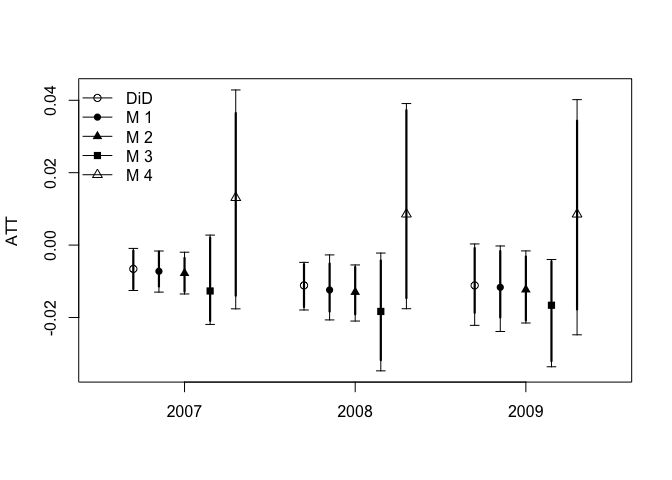
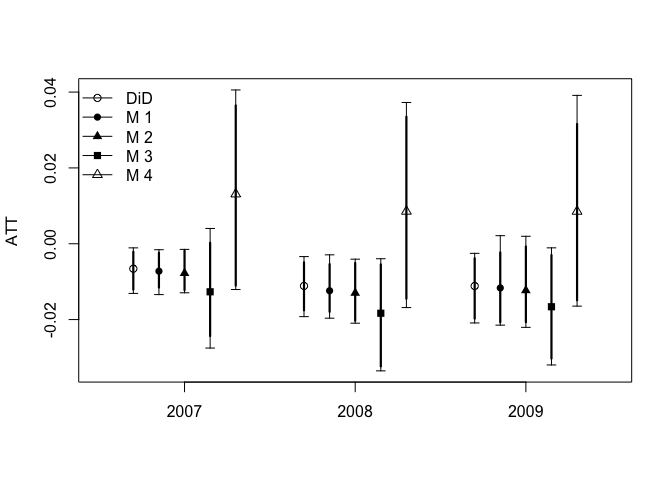
update readme

diff --git a/README.md b/README.md
@@ -43,11 +43,11 @@ data("anzia2012")
 ``` r
 # estimate ATT 
 fit_np <- did(lnavgsalary_cpi ~ oncycle, data = anzia2012,
-                            id_subject = "district", id_time = "year",
-                            post_treatment = c(2007, 2008, 2009),
-                            method = "nonparametric",
-                            se_boot = TRUE, n_boot  = 100, boot_min = FALSE,
-                            select = "HQIC")
+    id_subject = "district", id_time = "year",
+    post_treatment = c(2007, 2008, 2009),
+    method = "nonparametric",
+    se_boot = TRUE, n_boot  = 100, boot_min = FALSE,
+    select = "HQIC")
 ```
 
     ## 
@@ -68,14 +68,14 @@ fit_np <- did(lnavgsalary_cpi ~ oncycle, data = anzia2012,
 summary(fit_np)
 ```
 
-    ##                                2007             2008        2009
-    ## 1   D-DiD      ATT           -0.007           -0.012      -0.012
-    ## 2           95% CI [-0.013, -0.002] [-0.021, -0.003] [-0.024, 0]
-    ## 3              BIC          -18.018          -18.018     -18.018
-    ## 4             HQIC           -9.147           -9.147      -9.147
-    ## 5         Selected               M1               M1          M1
-    ## 6 Std-DiD      ATT           -0.007           -0.011      -0.011
-    ## 7           95% CI [-0.013, -0.001] [-0.018, -0.005] [-0.022, 0]
+    ##                                2007             2008             2009
+    ## 1   D-DiD      ATT           -0.007           -0.012           -0.012
+    ## 2           95% CI [-0.013, -0.002]  [-0.02, -0.003]  [-0.021, 0.002]
+    ## 3              BIC          -18.018          -18.018          -18.018
+    ## 4             HQIC           -9.147           -9.147           -9.147
+    ## 5         Selected               M1               M1               M1
+    ## 6 Std-DiD      ATT           -0.007           -0.011           -0.011
+    ## 7           95% CI [-0.013, -0.001] [-0.019, -0.003] [-0.021, -0.003]
 
 ``` r
 # plot results 
@@ -83,3 +83,41 @@ plot(fit_np, full = TRUE)
 ```
 
 ![](README_files/figure-markdown_github/unnamed-chunk-2-1.png)
+
+### Parametric Estimator (without Covariates)
+
+``` r
+fit_p1 <- did(lnavgsalary_cpi ~ oncycle, data = anzia2012,
+                            id_subject = "district", id_time = "year",
+                            post_treatment = c(2007, 2008, 2009),
+                            method = "parametric",
+                            se_boot = FALSE, select = "HQIC")
+```
+
+    ## 
+    ## ... estimating treatment effect for  2007  ...
+    ## 
+    ## ... estimating treatment effect for  2008  ...
+    ## 
+    ## ... estimating treatment effect for  2009  ...
+
+``` r
+# summary function 
+summary(fit_p1)
+```
+
+    ##                                2007             2008             2009
+    ## 1   D-DiD      ATT           -0.007           -0.012           -0.012
+    ## 2           95% CI [-0.008, -0.006] [-0.013, -0.011] [-0.013, -0.011]
+    ## 3              BIC          -18.018          -18.018          -18.018
+    ## 4             HQIC           -9.147           -9.147           -9.147
+    ## 5         Selected               M1               M1               M1
+    ## 6 Std-DiD      ATT           -0.007           -0.011           -0.011
+    ## 7           95% CI [-0.013, -0.001] [-0.019, -0.003] [-0.022, -0.001]
+
+``` r
+# plot function 
+plot(fit_p1, full = TRUE, ylim = c(-0.025, 0.02))
+```
+
+![](README_files/figure-markdown_github/unnamed-chunk-4-1.png)
